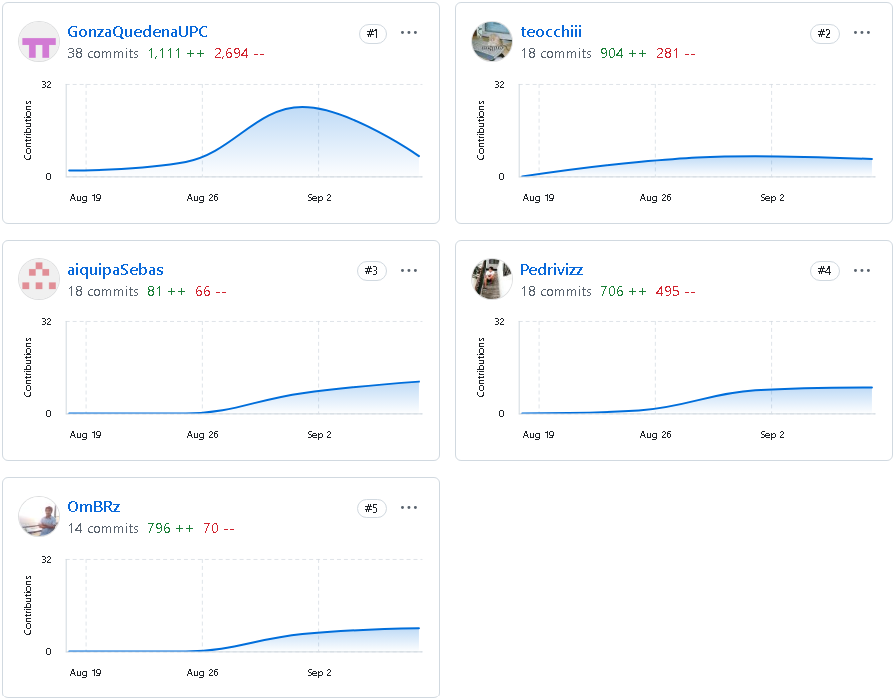
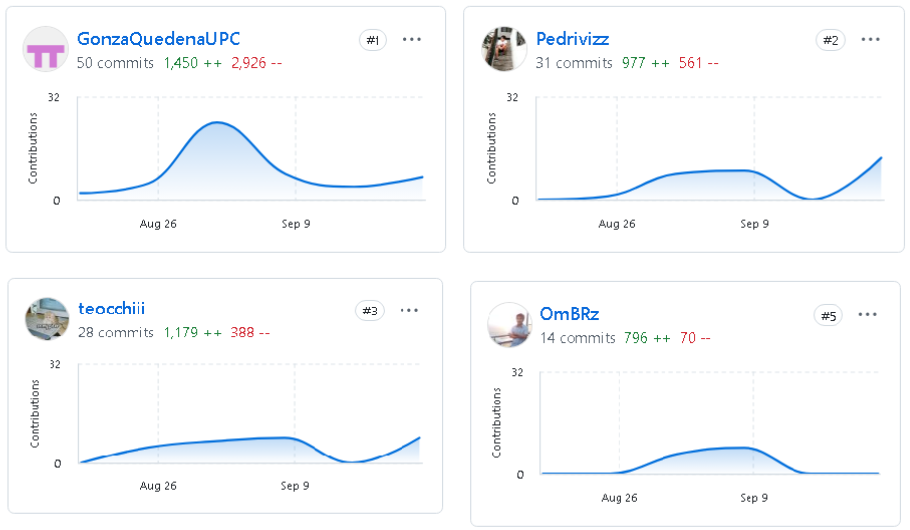
docs: add team collaboration insights.

diff --git a/README.md b/README.md
@@ -45,13 +45,14 @@
 
 </center>
 
-# Project Report Collaboration Insights
-Link de reporte: https://github.com/Dotvue/project-report  
-Link de landing page: https://landing.com  
-Link de organización: https://github.com/orgs/Dotvue/repositories  
+# Project Report Collaboration Insights  
+Analiza cómo la colaboración y la gestión de tareas influyeron en los resultados del proyecto, destacando fortalezas y áreas de mejora para optimizar futuras estrategias.
 
-(Imagenes de los commits cada entrega)
+Landing Page: https://landing.com  
+Reporte: https://github.com/Dotvue/project-report  
+Organización: https://github.com/orgs/Dotvue/repositories
 
+<img src="./assets/images/team-collaboration.png" alt="collaboration insights" width="800px"/>
 
 # Contenido
 
